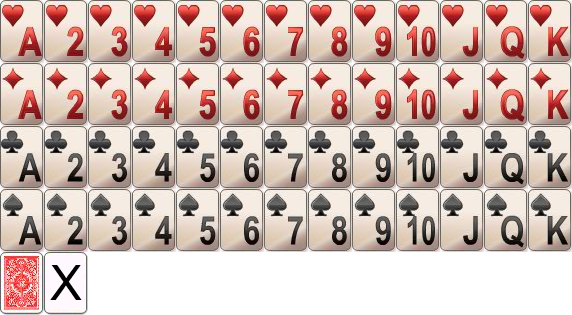
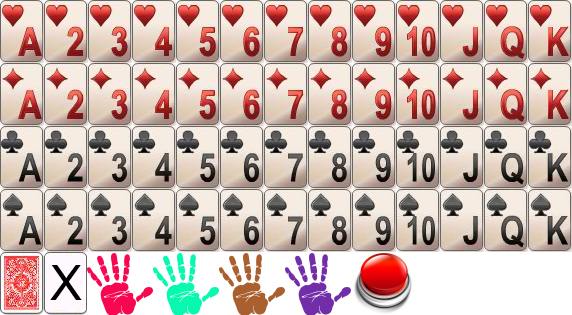
added hands and reset button

Changed region(s): [[0.1486, 0.8, 0.743, 1.0]]

diff --git a/complete/src/main/resources/static/game.js b/complete/src/main/resources/static/game.js
@@ -20,12 +20,6 @@ $('body').on('contextmenu', '#stage', function(e){ return false; });
 
 function setup() {
 	
-
-	// Create the sprites, add it to the stage, and render it
-//	texture = TextureCache["cards.png"];
-//	var rectangle = new Rectangle(0, 0, 44, 63);
-//	texture.frame = rectangle;
-
 	// connect to server
 	connect();
 	
@@ -55,25 +49,34 @@ function play() {
 }
 
 function updateGame(message) {
-	// todo destory non existent sprites
+	
+	// iterate through the existing sprites to get rid of outdated ones,
+	// todo open for improvement
+	for (var key in sprites) {
+		stage.removeChild(sprites[key]);
+	}
+	sprites = {};
 	
 	message.sprites.forEach(function(entry) {
 		
 		if (sprites[entry.id] == null) {
 			//create sprite if it does not exist
-			var card = new GameObject(entry.texture,entry.id);
-			makeDraggable(card);
-			sprites[entry.id] = card;
-			stage.addChild(card);
+			var gameObject = new GameObject(entry.texture,entry.id);
+			makeDraggable(gameObject);
+			sprites[entry.id] = gameObject;
+			stage.addChild(gameObject);
 		}
 		
-		// and update their location
+		// and update their location and texture
 		sprites[entry.id].position.x = entry.x;
 		sprites[entry.id].position.y = entry.y;
 		sprites[entry.id].texture = TextureCache[entry.texture];
 		
-		
 	});
+	
+	
+
+	
 }
 
 //The `randomInt` helper function

diff --git a/complete/src/main/java/hello/GameState.java b/complete/src/main/java/hello/GameState.java
@@ -5,6 +5,7 @@ import java.util.HashMap;
 import java.util.Map;
 import java.util.Random;
 import java.util.UUID;
+import java.util.concurrent.atomic.AtomicInteger;
 
 import javax.annotation.PostConstruct;
 
@@ -17,18 +18,28 @@ public class GameState {
 	private static int BOARD_HEIGHT = 512;
 	private static int CARD_WIDTH = 44;
 	private static int CARD_HEIGHT = 63;
+	private static int HAND_WIDTH = 66;
+	private static int HAND_HEIGHT = 63;
+	private static int BUTTON_WIDTH = 63;
+	private static int BUTTON_HEIGHT = 63;
+	public static int NUMBER_OF_HAND_IMAGES = 4;
 	
 	// all the sprites on the board
 	private Map<String,Sprite> sprites;
+	private Map<String,Player> players;
+	
+	private AtomicInteger playerCount;
 	
 	private Random random;
 	private Deck deck;
+	private Button resetButton;
 
 	@PostConstruct
 	private void initialize() {
 		
 		this.random = new Random();
-		sprites = new HashMap<String,Sprite>();
+		players = new HashMap<String,Player>();
+		playerCount = new AtomicInteger(0);
 		
 		// initialize game
 		initializeGame();
@@ -41,15 +52,28 @@ public class GameState {
 	
 	public void initializeGame() {
 		
-		
+		sprites = new HashMap<String,Sprite>();
 		
 		this.deck = new Deck(random);
 		deck.setSprite(Sprite.from(deck, 
 				BOARD_WIDTH - CARD_WIDTH - 10, 
 				BOARD_HEIGHT - CARD_HEIGHT - 10));
 		
-		sprites.put(deck.getSprite().getId(), deck.getSprite());
+		// add the deck sprite
+		sprites.put(deck.getId(), deck.getSprite());
 		
+		this.resetButton = new Button();
+		resetButton.setSprite(Sprite.from(resetButton, 
+				BOARD_WIDTH - BUTTON_WIDTH - 10, 
+				BUTTON_HEIGHT + 10));
+		
+		// add the reset button sprite
+		sprites.put(resetButton.getId(), resetButton.getSprite());
+		
+		// add the player sprites
+		for (Player player : players.values()) {
+			sprites.put(player.getId(), player.getSprite());
+		}
 		
 		
 //		sprites = new HashMap<Integer,Sprite>();
@@ -65,19 +89,37 @@ public class GameState {
     	
     	stateUpdateMessage.setSprites(new ArrayList<Sprite>(sprites.values()));
     	
+    	// add player sprites
+    	for (Player player : players.values()) {
+    		stateUpdateMessage.getSprites().add(player.getSprite());
+    	}
+    	
     	return stateUpdateMessage;
 	}
 	
 	public void update(Message message) {
 
-		// todo proper validations
 		
 		Sprite targetSprite = sprites.get(message.getId());
 		
-		if (message.isRightClick() && !deck.getSprite().equals(targetSprite)) {
-			// right click a card
-			Card card = (Card) targetSprite.getGameObject();
-			card.flip();
+		// todo proper validations
+		
+		if (message.isRightClick()) {
+			Object gameObject = targetSprite.getGameObject();
+			if (gameObject instanceof Card) {
+				// right click a card
+				Card card = (Card) targetSprite.getGameObject();
+				card.flip();
+			}
+			if (gameObject instanceof Button) {
+				//reset the game
+				initializeGame();
+			}
+//			} else if (gameObject instanceof Deck) {
+//				//do nothing
+//			} else if (gameObject instanceof Player) {
+//				// do nothing
+//			}
 			
 		} else if (deck.getSprite().equals(targetSprite)) {
 			// drawing a card from deck
@@ -89,26 +131,32 @@ public class GameState {
 			}
 			
 		} else {
-			// TODO is ctrl clicked (faceUp face down)
-			
-			// move a card
+						
+			// move the game object
 			targetSprite.setX(message.getX());
 			targetSprite.setY(message.getY());
 		}
 		
-//		synchronized (sprites) {
-//    		IsSprite sprite = sprites.get(message.getId());
-//    		IsSprite.setX(message.getX());
-//    		IsSprite.setY(message.getY());
-//		}
 	}
 	
-	public void registerPlayer(String sessionId) {
+	public void registerPlayer(String userName) {
 		// TODO add a private player area sprite moveable only by player
+		if (!players.containsKey(userName)) {
+			
+			// create the player
+			Player player = new Player(playerCount.incrementAndGet(),userName);
+			Sprite playerSprite = Sprite.from(player, player.getPlayerNo()*HAND_WIDTH + 20, player.getPlayerNo() * HAND_HEIGHT + 20);
+			player.setSprite(playerSprite);
+			
+			//add player to player and sprite list
+			players.put(userName, player);
+			sprites.put(player.getId(), playerSprite);
+			
+		}
 		
 	}
 	
-	public void unregisterPlayer(String sessionId) {
+	public void unregisterPlayer(String userName) {
 		// TODO remove private player area sprite 
 	}
 }

diff --git a/complete/src/main/java/hello/Player.java b/complete/src/main/java/hello/Player.java
@@ -1,0 +1,70 @@
+package hello;
+
+import java.util.HashSet;
+import java.util.Set;
+
+public class Player implements IsSprite{
+
+	private int playerNo;
+	private String playerName;
+	private Sprite sprite;
+	private Set<Card> cards = new HashSet<Card>();
+	
+	public Player(int no, String playerName) {
+		this.playerNo = no;
+		this.playerName = playerName;
+	}
+	
+	public boolean hasCardWithId(String id) {
+		for (Card card : cards) {
+			if (card.getId().equals(id))
+				return true;
+		}
+		 return false;
+	}
+	
+	public void add(Card card) {
+		cards.add(card);
+	}
+	
+	public boolean remove(Card card) {
+		return cards.remove(card);
+	}
+	
+	public String getPlayerName() {
+		return playerName;
+	}
+	
+	public int getPlayerNo() {
+		return playerNo;
+	}
+	
+	public Sprite getSprite() {
+		return sprite;
+	}
+	
+	public void setSprite(Sprite sprite) {
+		this.sprite = sprite;
+	}
+	
+	@Override
+	public int getX() {
+		return sprite.getX();
+	}
+
+	@Override
+	public int getY() {
+		return sprite.getY();
+	}
+
+	@Override
+	public String getId() {
+		return sprite.getId();
+	}
+
+	@Override
+	public String getTexture() {
+		return String.format("hand%s.png", playerNo % GameState.NUMBER_OF_HAND_IMAGES);
+	}
+
+}

diff --git a/complete/src/main/java/hello/Button.java b/complete/src/main/java/hello/Button.java
@@ -1,0 +1,34 @@
+package hello;
+
+public class Button implements IsSprite{
+
+	private Sprite sprite;
+	
+	public Sprite getSprite() {
+		return sprite;
+	}
+	
+	public void setSprite(Sprite sprite) {
+		this.sprite = sprite;
+	}
+	
+	@Override
+	public int getX() {
+		return sprite.getX();
+	}
+
+	@Override
+	public int getY() {
+		return sprite.getY();
+	}
+
+	@Override
+	public String getId() {
+		return sprite.getId();
+	}
+
+	@Override
+	public String getTexture() {
+		return "button.png";
+	}
+}

diff --git a/complete/src/main/java/hello/GreetingController.java b/complete/src/main/java/hello/GreetingController.java
@@ -62,6 +62,9 @@ public class GreetingController {
 //		String stompSessionId = (String) event.getMessage().getHeaders().get("simpSessionId");
 //		String user = event.getUser().getName();
 		
+		//register new player
+		gameState.registerPlayer(event.getUser().getName());
+		
 		// send initial state of game board
 		template.convertAndSend("/topic/public", gameState.toMessage());
 		

diff --git a/complete/src/main/java/hello/MessageConsumer.java b/complete/src/main/java/hello/MessageConsumer.java
@@ -37,6 +37,8 @@ public class MessageConsumer{
 				
 			} catch (InterruptedException e) {
 				e.printStackTrace();
+			} catch (Exception e) {
+				e.printStackTrace();
 			}
 		}
 		
